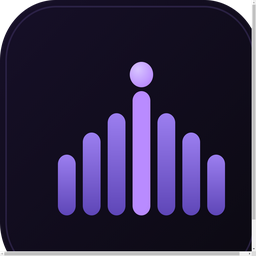
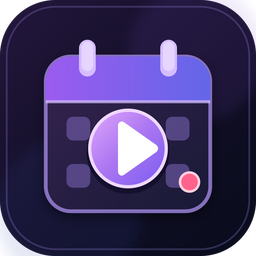
Release v1.0.21 with refreshed app artwork

diff --git a/scripts/build-icon.js b/scripts/build-icon.js
@@ -4,10 +4,36 @@ const { app, BrowserWindow } = require("electron");
 
 const SIZES = [16, 24, 32, 48, 64, 128, 256];
 const OUT_DIR = path.join(__dirname, "..", "build");
+const RENDERER_ASSETS_DIR = path.join(__dirname, "..", "src", "renderer", "assets");
 const SVG_PATH = path.join(__dirname, "icon-source.svg");
+const SMALL_SVG_PATH = path.join(__dirname, "icon-small.svg");
 
-function buildIco(pngBuffers) {
-  const entries = pngBuffers.map((buf, i) => ({ size: SIZES[i], buf }));
+function buildBmpIconImage(image, size) {
+  const pixels = image.toBitmap();
+  if (pixels.length !== size * size * 4) throw new Error(`Unexpected ${size}px bitmap size`);
+  const maskStride = Math.ceil(size / 32) * 4;
+  const maskBytes = maskStride * size;
+  const dib = Buffer.alloc(40 + pixels.length + maskBytes);
+  dib.writeUInt32LE(40, 0);
+  dib.writeInt32LE(size, 4);
+  dib.writeInt32LE(size * 2, 8);
+  dib.writeUInt16LE(1, 12);
+  dib.writeUInt16LE(32, 14);
+  dib.writeUInt32LE(pixels.length, 20);
+  for (let row = 0; row < size; row++) {
+    const sourceRow = size - 1 - row;
+    pixels.copy(dib, 40 + row * size * 4, sourceRow * size * 4, (sourceRow + 1) * size * 4);
+    for (let col = 0; col < size; col++) {
+      if (pixels[(sourceRow * size + col) * 4 + 3] < 128) {
+        dib[40 + pixels.length + row * maskStride + (col >> 3)] |= 0x80 >> (col & 7);
+      }
+    }
+  }
+  return dib;
+}
+
+function buildIco(iconBuffers) {
+  const entries = iconBuffers.map((buf, i) => ({ size: SIZES[i], buf }));
   const headerSize = 6 + entries.length * 16;
   let offset = headerSize;
   const header = Buffer.alloc(6);
@@ -48,28 +74,84 @@ async function main() {
     height: 1024,
     show: false,
     transparent: true,
+    frame: false,
+    useContentSize: true,
     webPreferences: { offscreen: false },
   });
   await win.loadURL("data:text/html;charset=utf-8," + encodeURIComponent(html));
   await new Promise((r) => setTimeout(r, 150));
 
   const fullImage = await win.webContents.capturePage();
+  const smallSvgMarkup = fs.readFileSync(SMALL_SVG_PATH, "utf-8");
+  await win.loadURL("data:text/html;charset=utf-8," + encodeURIComponent(html.replace(svgMarkup, smallSvgMarkup)));
+  await new Promise((r) => setTimeout(r, 150));
+  const smallImage = await win.webContents.capturePage();
 
   if (!fs.existsSync(OUT_DIR)) fs.mkdirSync(OUT_DIR, { recursive: true });
+  if (!fs.existsSync(RENDERER_ASSETS_DIR)) fs.mkdirSync(RENDERER_ASSETS_DIR, { recursive: true });
 
   const pngBuffers = [];
+  const iconBuffers = [];
   for (const size of SIZES) {
-    const resized = fullImage.resize({ width: size, height: size, quality: "best" });
+    const source = size <= 32 ? smallImage : fullImage;
+    const resized = source.resize({ width: size, height: size, quality: "best" });
     const buf = resized.toPNG();
     pngBuffers.push(buf);
-    if (size === 256) fs.writeFileSync(path.join(OUT_DIR, "icon.png"), buf);
+    iconBuffers.push(size === 256 ? buf : buildBmpIconImage(resized, size));
+    if (size === 256) {
+      fs.writeFileSync(path.join(OUT_DIR, "icon.png"), buf);
+      fs.writeFileSync(path.join(RENDERER_ASSETS_DIR, "icon.png"), buf);
+    }
   }
   fs.writeFileSync(path.join(OUT_DIR, "icon-16.png"), pngBuffers[0]);
 
-  const icoBuffer = buildIco(pngBuffers);
+  const icoBuffer = buildIco(iconBuffers);
   fs.writeFileSync(path.join(OUT_DIR, "icon.ico"), icoBuffer);
+  fs.writeFileSync(path.join(RENDERER_ASSETS_DIR, "icon.ico"), icoBuffer);
 
-  console.log("Wrote build/icon.ico, build/icon.png, build/icon-16.png");
+  const coverHtml = `<!doctype html><html><head><meta charset="utf-8"><style>
+    *{box-sizing:border-box}html,body{margin:0;width:1600px;height:900px;overflow:hidden}
+    body{font-family:Arial,sans-serif;color:#f7f3ff;background:
+      radial-gradient(circle at 88% 18%,#533484 0,transparent 34%),
+      radial-gradient(circle at 62% 96%,#243a75 0,transparent 39%),
+      linear-gradient(132deg,#0b0b19 0%,#17102b 55%,#0a1020 100%)}
+    .grid{position:absolute;inset:0;opacity:.14;background-image:
+      linear-gradient(#a68ef0 1px,transparent 1px),linear-gradient(90deg,#a68ef0 1px,transparent 1px);
+      background-size:80px 80px;mask-image:linear-gradient(90deg,transparent 27%,#000 100%)}
+    .accent{position:absolute;left:102px;top:151px;width:90px;height:8px;border-radius:8px;background:#ad7bfa}
+    .eyebrow{position:absolute;left:102px;top:192px;font-size:26px;font-weight:700;letter-spacing:7px;color:#baa7e4}
+    .title{position:absolute;left:94px;top:288px;font-size:102px;font-weight:900;line-height:.97;letter-spacing:-5px}
+    .title span{display:block}.title span:last-child{color:#bd91ff}
+    .subtitle{position:absolute;left:103px;top:550px;font-size:28px;font-weight:700;letter-spacing:4px;color:#d3c3eb}
+    .footer{position:absolute;left:102px;bottom:109px;display:flex;align-items:center;gap:15px;color:#d8c8f3;font-size:24px;font-weight:700;letter-spacing:3px}
+    .live{width:18px;height:18px;border-radius:50%;background:#ff638d;box-shadow:0 0 23px #ff638d}
+    .schedule{position:absolute;left:1010px;top:118px;width:480px;height:645px;border:2px solid #a389d8;border-radius:43px;background:#211b3c;transform:rotate(10deg);opacity:.78;box-shadow:0 38px 95px #050612}
+    .schedule:before{content:"";display:block;height:104px;border-radius:40px 40px 0 0;background:linear-gradient(90deg,#7951c7,#555dc1)}
+    .row{height:53px;margin:21px 38px;border-radius:15px;background:#4b3c70;opacity:.9}
+    .row:nth-child(2n){width:69%}.row:nth-child(2n+1){width:78%}
+    .mark{position:absolute;left:932px;top:213px;width:514px;height:514px;transform:rotate(-8deg);filter:drop-shadow(0 33px 36px #050512)}
+    .mark svg{display:block;width:100%;height:100%}
+  </style></head><body>
+    <div class="grid"></div><div class="schedule"><div class="row"></div><div class="row"></div><div class="row"></div><div class="row"></div><div class="row"></div><div class="row"></div></div>
+    <div class="mark">${svgMarkup}</div><div class="accent"></div>
+    <div class="eyebrow">STREAM SCHEDULE STUDIO</div>
+    <div class="title"><span>STREAMPLAN</span><span>MAKER</span></div>
+    <div class="subtitle">CRAFT YOUR STREAM SCHEDULE</div>
+    <div class="footer"><span class="live"></span> PLAN THE WEEK. GO LIVE.</div>
+  </body></html>`;
+  const coverWin = new BrowserWindow({
+    width: 1600,
+    height: 900,
+    show: false,
+    frame: false,
+    useContentSize: true,
+  });
+  await coverWin.loadURL("data:text/html;charset=utf-8," + encodeURIComponent(coverHtml));
+  await new Promise((r) => setTimeout(r, 150));
+  fs.writeFileSync(path.join(RENDERER_ASSETS_DIR, "cover.png"), (await coverWin.webContents.capturePage()).toPNG());
+
+  console.log("Wrote build/icon.ico, build/icon.png, build/icon-16.png and renderer brand assets");
+  coverWin.destroy();
   win.destroy();
   app.quit();
 }

diff --git a/src/renderer/ui/softwareSettings.js b/src/renderer/ui/softwareSettings.js
@@ -84,6 +84,13 @@ export class SoftwareSettings {
 
     const header = document.createElement("div");
     header.className = "settings-header";
+    const brand = document.createElement("div");
+    brand.className = "settings-brand";
+    const icon = document.createElement("img");
+    icon.src = "assets/icon.png";
+    icon.alt = "";
+    icon.width = 32;
+    icon.height = 32;
     const title = document.createElement("div");
     title.className = "settings-title";
     title.textContent = t("settings.title");
@@ -91,7 +98,8 @@ export class SoftwareSettings {
     closeBtn.className = "settings-close";
     closeBtn.textContent = "✕";
     closeBtn.addEventListener("click", () => this.close());
-    header.append(title, closeBtn);
+    brand.append(icon, title);
+    header.append(brand, closeBtn);
     modal.appendChild(header);
 
     const tabs = document.createElement("div");

diff --git a/src/renderer/index.html b/src/renderer/index.html
@@ -26,8 +26,11 @@
     </div>
     <div id="topBar">
       <div id="titleBlock">
-        <div id="appTitle">Streamplan Maker</div>
-        <div id="appSubtitle">CRAFT YOUR STREAM SCHEDULE</div>
+        <img id="appBrandIcon" src="assets/icon.png" alt="" width="36" height="36" />
+        <div>
+          <div id="appTitle">Streamplan Maker</div>
+          <div id="appSubtitle">CRAFT YOUR STREAM SCHEDULE</div>
+        </div>
       </div>
       <div id="topBarSpacer"></div>
       <div id="exportBar"></div>

diff --git a/src/main/main.js b/src/main/main.js
@@ -6,7 +6,7 @@ const { applyDisplayMode } = require("./displayMode");
 const { initAutoUpdater } = require("./updater");
 
 const APP_NAME = "Streamplan Maker";
-const APP_ICON_PATH = path.join(__dirname, "..", "..", "build", "icon.ico");
+const APP_ICON_PATH = path.join(__dirname, "..", "renderer", "assets", "icon.ico");
 const PROTOCOL_SCHEME = "streamplan-maker";
 
 let mainWindow = null;

diff --git a/src/renderer/styles/appThemes.css b/src/renderer/styles/appThemes.css
@@ -760,6 +760,15 @@ body[data-app-minimized="1"] .theme-swatch.is-animated {
   justify-content: space-between;
   margin-bottom: 4px;
 }
+#settingsModal .settings-brand {
+  display: flex;
+  align-items: center;
+  gap: 10px;
+}
+#settingsModal .settings-brand img {
+  display: block;
+  border-radius: 8px;
+}
 #settingsModal .settings-title {
   font-size: 17px;
   font-weight: 700;

diff --git a/src/renderer/styles/theme.css b/src/renderer/styles/theme.css
@@ -113,6 +113,20 @@ html, body {
   gap: 16px;
 }
 
+#titleBlock {
+  display: flex;
+  align-items: center;
+  gap: 8px;
+  flex: none;
+}
+
+#appBrandIcon {
+  display: block;
+  width: 36px;
+  height: 36px;
+  border-radius: 9px;
+}
+
 #appTitle {
   font-size: 20px;
   font-weight: 600;

diff --git a/CHANGELOG.md b/CHANGELOG.md
@@ -2,6 +2,12 @@
 
 All notable changes to Streamplan Maker are documented here. Each entry becomes the GitHub release notes for that version, and is also shown in the in-app "update ready" popup.
 
+## [1.0.21] - 2026-09-30
+
+### Changed
+- Redesigned the app artwork with a calendar and play symbol. The cover now appears in the project README, and the matching icon appears in the editor header, Settings, browser tab, app window, executable, installer, and Windows shortcuts.
+- Optimized the 16, 24, and 32 pixel icon variants for clearer display in the taskbar and other small spaces.
+
 ## [1.0.20] - 2026-08-03
 
 ### Added

diff --git a/README.md b/README.md
@@ -1,5 +1,7 @@
 # Streamplan Maker
 
+![Streamplan Maker cover](src/renderer/assets/cover.png)
+
 **Streamplan Maker** is a Windows desktop app for designing and exporting polished weekly stream-schedule graphics — the kind of "what's on this week" image streamers post to Twitter/X, Discord, or their channel banner. Everything is edited live: change a day, a color, or a font and the preview updates instantly, with no round-trip to an external design tool.
 
 ## Overview
